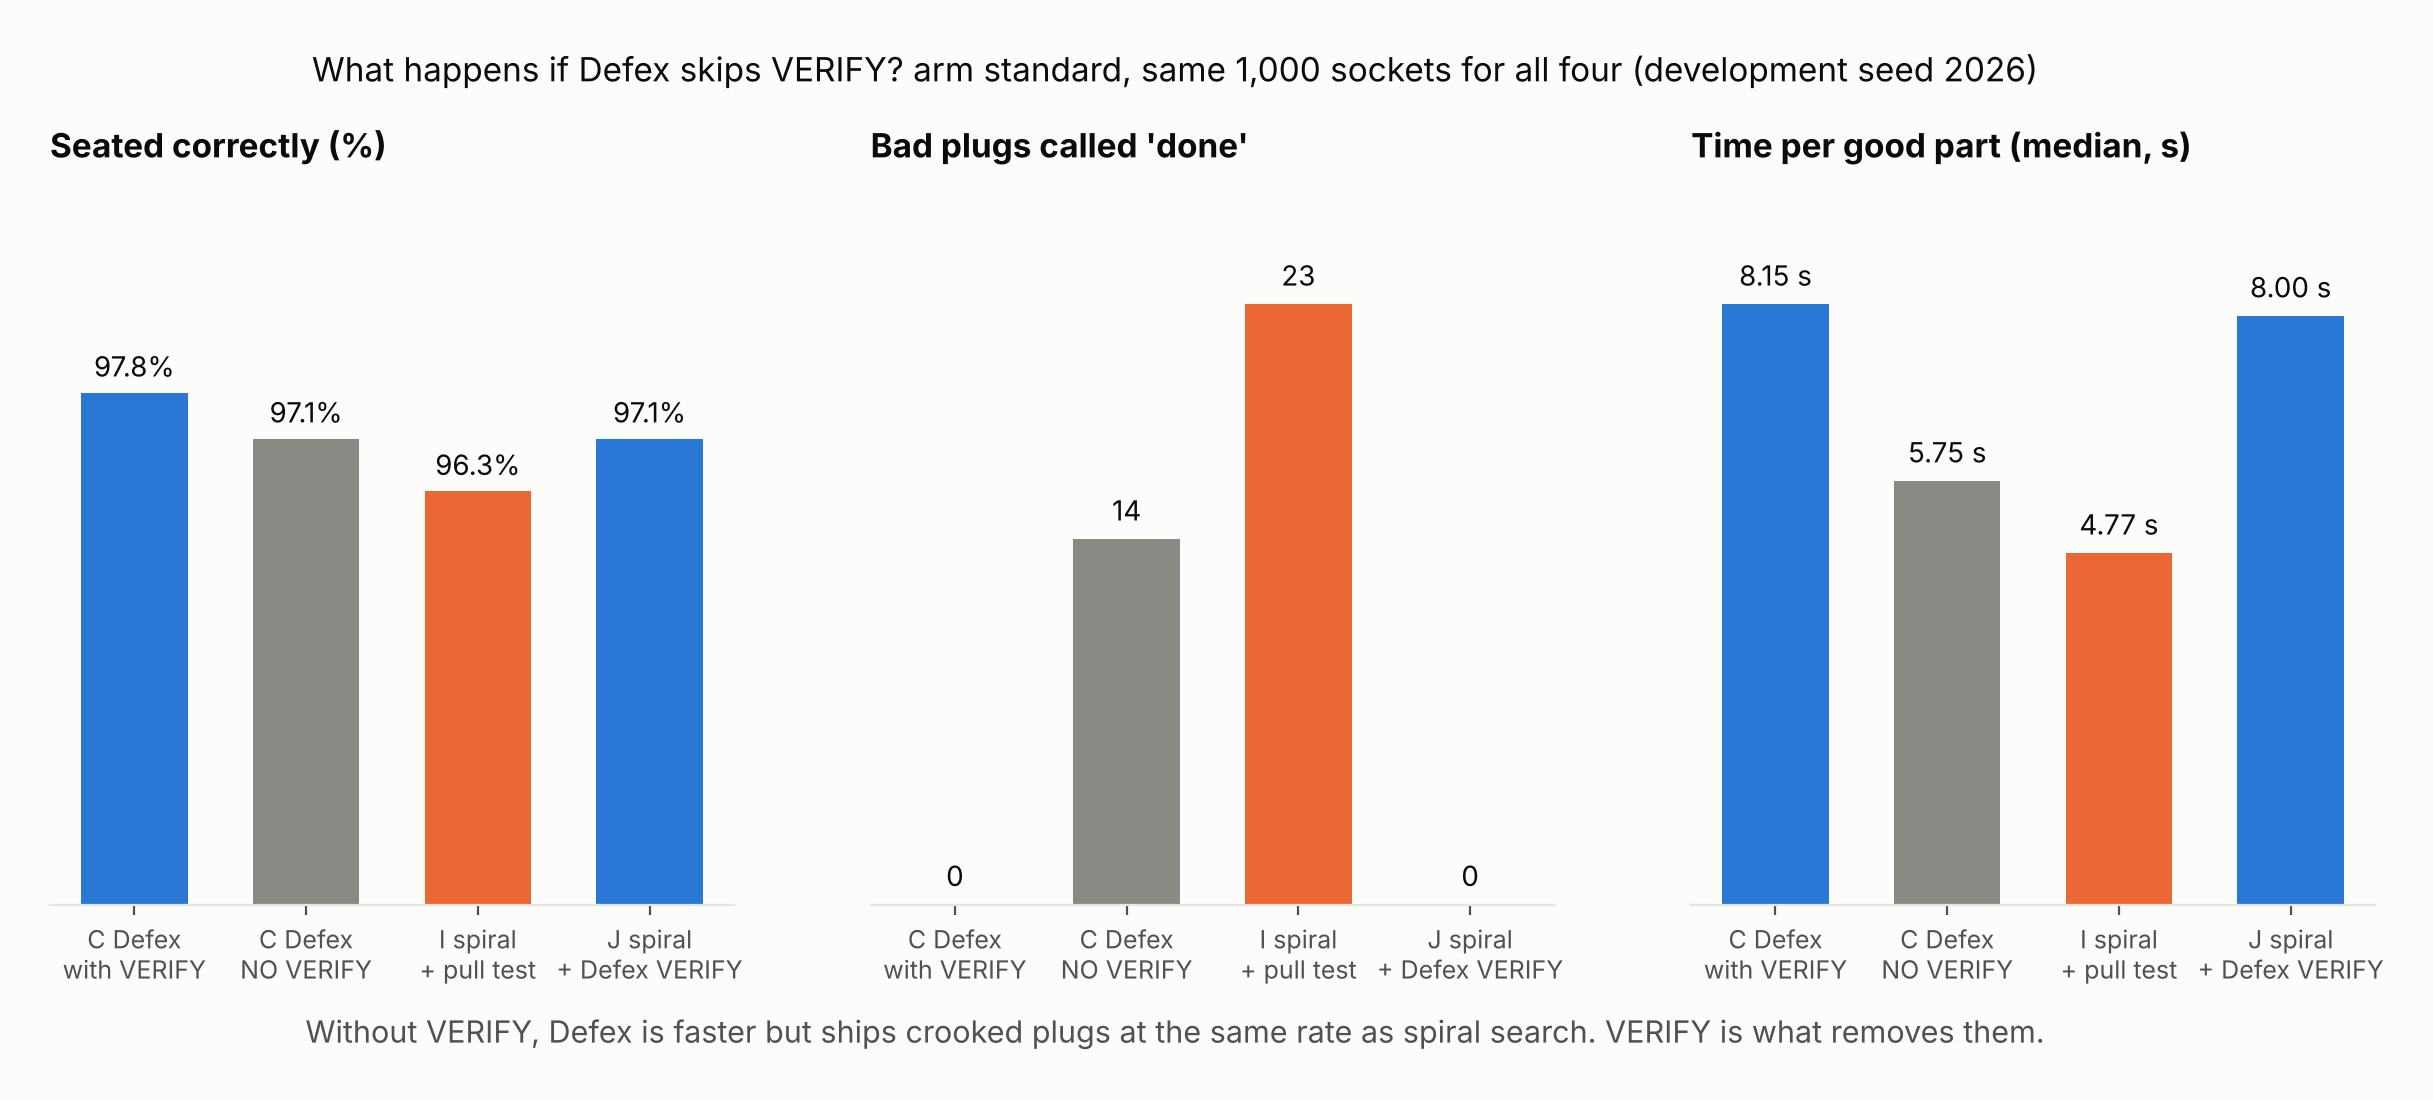
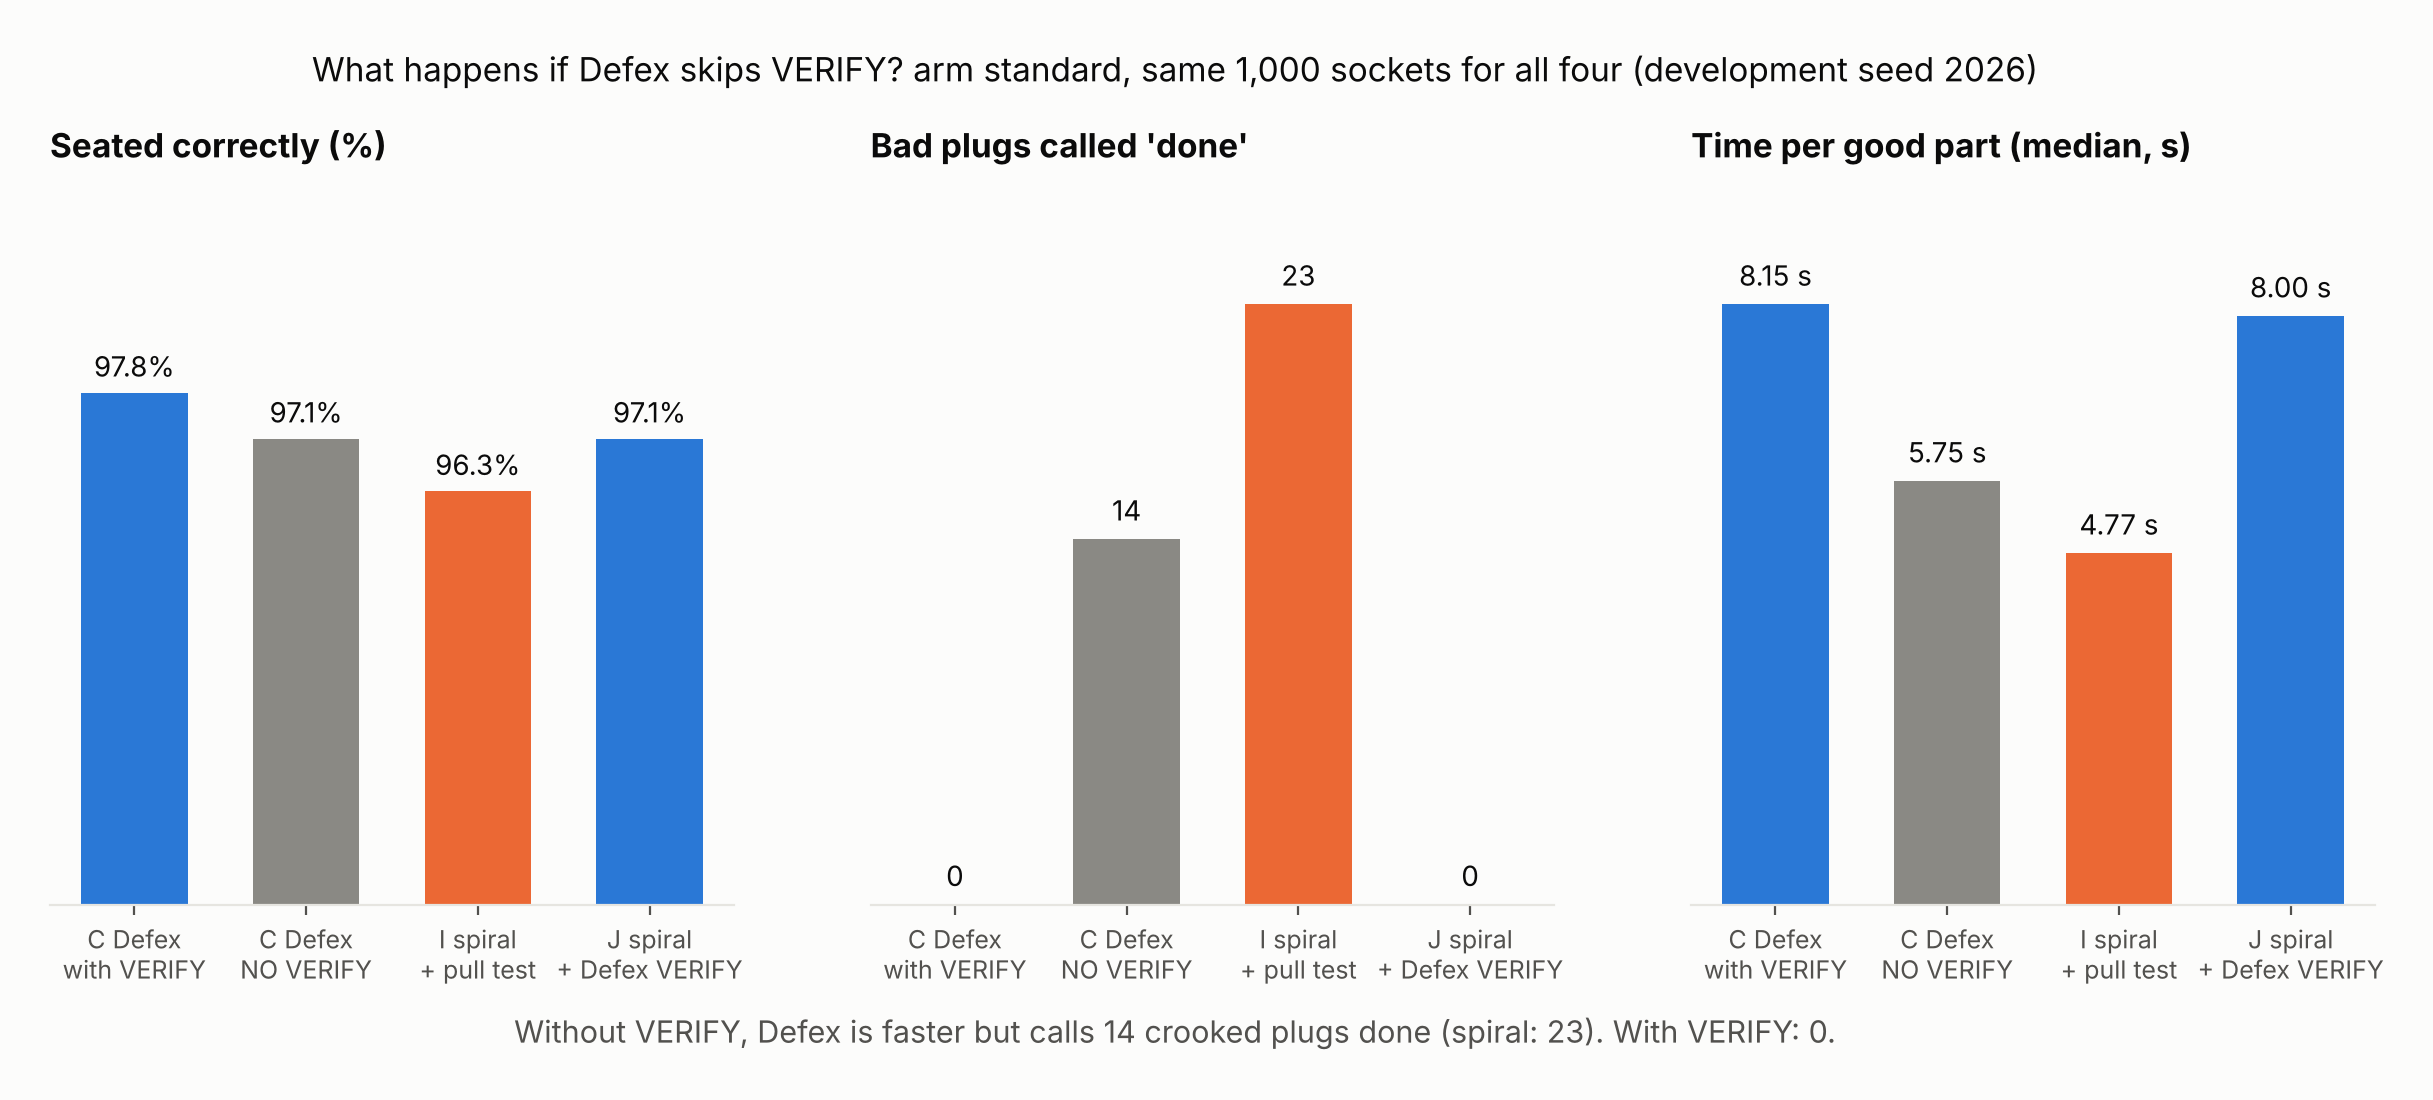
fig8: caption states each machine's own counts
Claude-Session: https://claude.ai/code/session_01WQF9NcL9DJyeGv1wXUcrqy

Changed region(s): [[0.1249, 0.9273, 0.8434, 0.9582]]

diff --git a/docs/yc_figures/make_fig8.py b/docs/yc_figures/make_fig8.py
@@ -29,5 +29,5 @@ for ax,(title,i,fmt,yl) in zip(axs,panels):
     ax.set_yticks([]); ax.set_title(title,loc="left",fontsize=12,fontweight="bold",pad=14)
 n=stats[0][3]
 fig.suptitle(f"What happens if Defex skips VERIFY? {cell.replace('_',' ')}, same {n:,} sockets for all four (development seed 2026)",fontsize=12,y=1.04)
-fig.text(0.5,-0.04,"Without VERIFY, Defex is faster but ships crooked plugs at the same rate as spiral search. VERIFY is what removes them.",ha="center",color=INK2)
+fig.text(0.5,-0.04,f"Without VERIFY, Defex is faster but calls {stats[1][1]} crooked plugs done (spiral: {stats[2][1]}). With VERIFY: {stats[0][1]}.",ha="center",color=INK2)
 fig.savefig(out,dpi=200,bbox_inches="tight",pad_inches=0.25)
